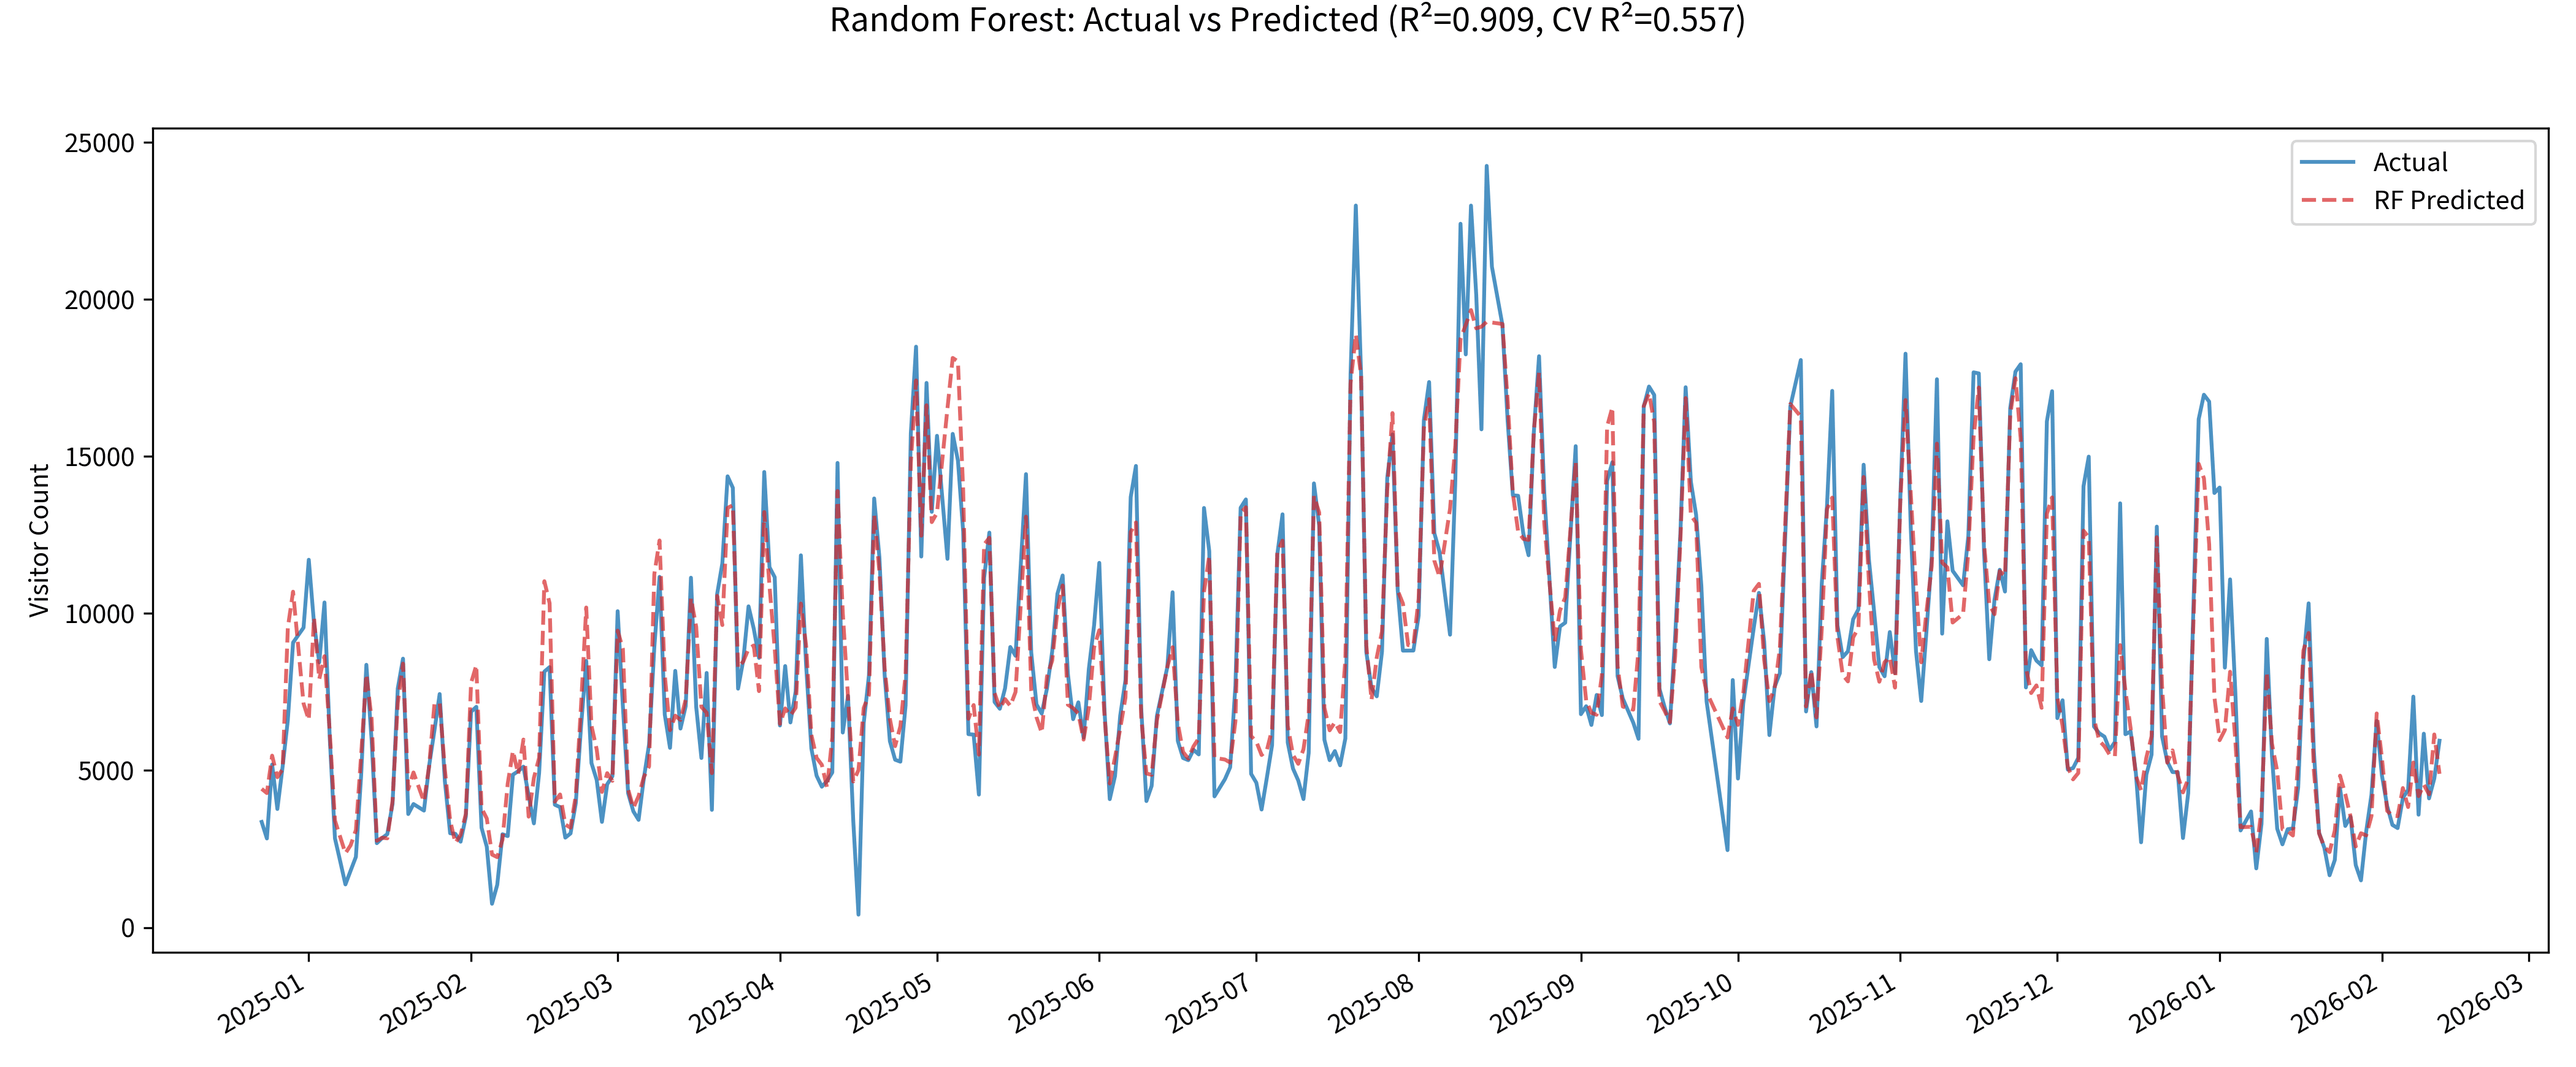
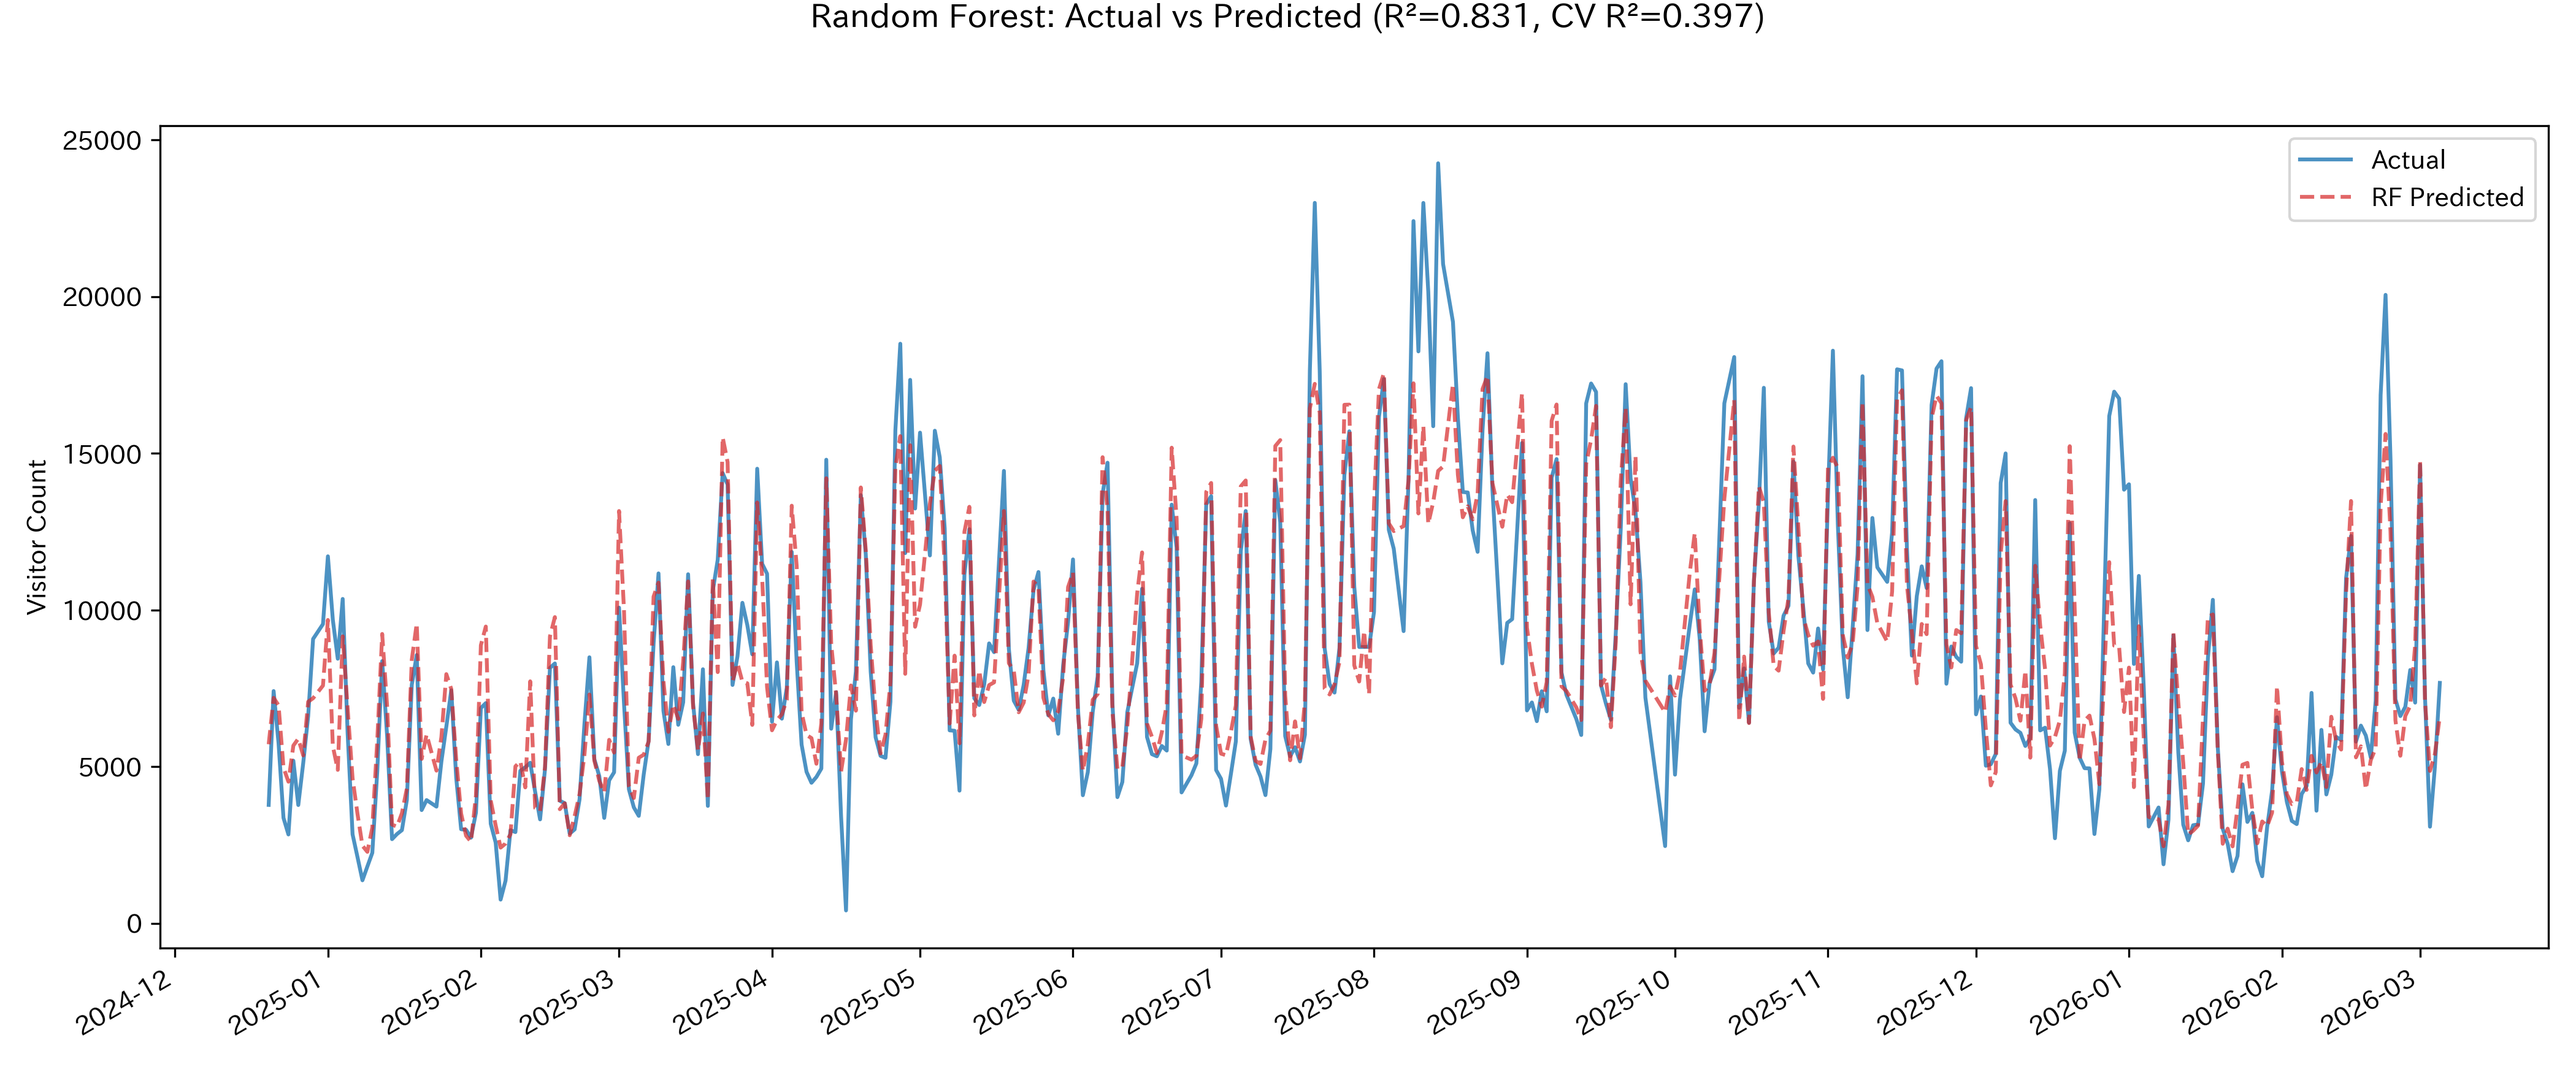
feat: handle missing Google intent signals and evaluate DHDE robustness

diff --git a/src/run_analysis.py b/src/run_analysis.py
@@ -99,7 +99,6 @@ def main() -> None:
     # Rename columns for display (more descriptive labels in figure)
     _label_map = {
         "count": "AI Camera Count",
-        route_col: f"Google {route_col.capitalize()}",
         "precip": "Precipitation (mm)",
         "temp": "Temperature (°C)",
         "sun": "Sunshine (h)",
@@ -107,6 +106,10 @@ def main() -> None:
         "is_weekend_or_holiday": "Weekend/Holiday",
         "weather_severity": "Weather Severity",
     }
+    # Only add Google label if available
+    if route_col is not None:
+        _label_map[route_col] = f"Google {route_col.capitalize()}"
+
     corr_matrix = corr_matrix.rename(index=_label_map, columns=_label_map)
 
     # ══════════════════════════════════════════════════════════════════════
@@ -128,32 +131,48 @@ def main() -> None:
     # 4. OPPORTUNITY GAP
     # ══════════════════════════════════════════════════════════════════════
     daily = compute_opportunity_gap(daily, route_col, rpt)
-    intent_median = daily[route_col].median()
+    if route_col is not None and route_col in daily.columns:
+       intent_median = daily[route_col].median()
+    else:
+       rpt.log("Skipping intent median calculation (no Google data).")
+       intent_median = None
     count_median = daily["count"].median()
-
+        
     # ══════════════════════════════════════════════════════════════════════
     # 5. EXPLAINING THE NEGATIVE CORRELATION
     # ══════════════════════════════════════════════════════════════════════
-    rpt.section(5, "Explaining the Negative Lag-2 Correlation")
-    rpt.log("\nLag correlations (full data):")
-    for lag in range(0, 8):
-        col = f"{route_col}_lag{lag}"
-        if col in daily.columns:
-            r = daily[["count", col]].dropna().corr().iloc[0, 1]
-            rpt.log(f"  lag {lag}: r = {r:+.3f}")
 
-    for label, mask in [("Weekday", daily["is_weekend_or_holiday"] == 0),
-                         ("Weekend/Holiday", daily["is_weekend_or_holiday"] == 1)]:
-        sub = daily.loc[mask]
-        r = sub[["count", f"{route_col}_lag2"]].dropna().corr().iloc[0, 1]
-        rpt.log(f"  {label:20s}: r = {r:+.3f}  (n={len(sub)})")
+    if route_col is not None and route_col in daily.columns:
 
-    rpt.log("\nDay-of-week Google intent vs count:")
-    for dow in range(7):
-        sub = daily[daily["dow"] == dow]
-        day_name = ["Mon", "Tue", "Wed", "Thu", "Fri", "Sat", "Sun"][dow]
-        rpt.log(f"  {day_name}: intent={sub[route_col].mean():7.1f}   "
-                f"count={sub['count'].mean():7.1f}")
+        rpt.section(5, "Explaining the Negative Lag-2 Correlation")
+
+        rpt.log("\nLag correlations (full data):")
+        for lag in range(0, 8):
+            col = f"{route_col}_lag{lag}"
+            if col in daily.columns:
+                r = daily[["count", col]].dropna().corr().iloc[0, 1]
+                rpt.log(f"  lag {lag}: r = {r:+.3f}")
+
+        for label, mask in [("Weekday", daily["is_weekend_or_holiday"] == 0),
+                            ("Weekend/Holiday", daily["is_weekend_or_holiday"] == 1)]:
+            sub = daily.loc[mask]
+            lag_col = f"{route_col}_lag2"
+            if lag_col in sub.columns:
+                r = sub[["count", lag_col]].dropna().corr().iloc[0, 1]
+                rpt.log(f"  {label:20s}: r = {r:+.3f}  (n={len(sub)})")
+
+        rpt.log("\nDay-of-week Google intent vs count:")
+        for dow in range(7):
+            sub = daily[daily["dow"] == dow]
+            day_name = ["Mon", "Tue", "Wed", "Thu", "Fri", "Sat", "Sun"][dow]
+            rpt.log(
+                f"  {day_name}: intent={sub[route_col].mean():7.1f}   "
+                f"count={sub['count'].mean():7.1f}"
+            )
+
+    else:
+        rpt.section(5, "Explaining the Negative Lag-2 Correlation")
+        rpt.log("Skipping correlation analysis (no Google intent data available).")
 
     # ══════════════════════════════════════════════════════════════════════
     # 6. VISUALISATIONS (Figs 1-7)
@@ -161,12 +180,7 @@ def main() -> None:
     rpt.section(6, "Generating Figures")
     y = model_df["count"].values
 
-    fig_num += 1
-    viz.plot_timeseries(
-        daily, route_col,
-        os.path.join(fig_dir, f"fig{fig_num:02d}_timeseries.png"),
-        rpt, dpi=dpi)
-
+    # Always safe plots
     fig_num += 1
     viz.plot_correlation_heatmap(
         corr_matrix,
@@ -190,19 +204,25 @@ def main() -> None:
         rf_result.r2_train, rf_result.cv_r2_mean,
         os.path.join(fig_dir, "paper_fig2_rf_prediction.png"),
         rpt, dpi=300)
-
-    fig_num += 1
-    viz.plot_opportunity_gap(
-        daily, route_col, intent_median, count_median,
-        os.path.join(fig_dir, f"fig{fig_num:02d}_opportunity_gap.png"),
-        rpt, dpi=dpi)
-
-    fig_num += 1
-    viz.plot_lag_correlations(
-        daily, route_col,
-        os.path.join(fig_dir, f"fig{fig_num:02d}_lag_correlations.png"),
-        rpt, dpi=dpi)
-
+    # Google-dependent plots 
+    if route_col is not None and route_col in daily.columns:
+        fig_num += 1
+        viz.plot_timeseries(
+            daily, route_col,
+            os.path.join(fig_dir, f"fig{fig_num:02d}_timeseries.png"),
+            rpt, dpi=dpi)
+        fig_num += 1
+        viz.plot_opportunity_gap(
+            daily, route_col, intent_median, count_median,
+            os.path.join(fig_dir, f"fig{fig_num:02d}_opportunity_gap.png"),
+            rpt, dpi=dpi)
+        fig_num += 1
+        viz.plot_lag_correlations(
+            daily, route_col,
+            os.path.join(fig_dir, f"fig{fig_num:02d}_lag_correlations.png"),
+            rpt, dpi=dpi)
+    else:
+        rpt.log("Skipping Google-dependent visualizations (no Google data).")
     # ══════════════════════════════════════════════════════════════════════
     # 7. CROSS-PREFECTURAL SIGNAL
     # ══════════════════════════════════════════════════════════════════════
@@ -292,7 +312,7 @@ def main() -> None:
     # produced later as part of the spatial section and copied below.
     viz.plot_resurrection(
         sim_df, total_lost, mean_actual_rank, mean_hypo_rank,
-        os.path.join("/tmp", "fig16_resurrection_temp.png"),
+        os.path.join(fig_dir, "fig16_resurrection_temp.png"),
         rpt, dpi=dpi)
 
     # ══════════════════════════════════════════════════════════════════════

diff --git a/src/data_loader.py b/src/data_loader.py
@@ -184,7 +184,11 @@ def load_google_intent(
                 frames.append(pd.read_csv(str(total_path)))
 
     if not frames:
-        raise FileNotFoundError(f"No Google trend CSV found in {trend_root}.")
+        # Instead of crashing, log a warning
+        rpt(f"WARNING: No Google trend CSV found in {trend_root}. "
+            f"Skipping Google Trends analysis. Other data will still be processed.")
+        # Return empty DataFrame and None for route column
+        return pd.DataFrame(), None
 
     google = pd.concat(frames, ignore_index=True)
 
@@ -391,7 +395,7 @@ def load_raw_fukui_survey(
     return df
 
 
-# ── Merge into master daily ──────────────────────────────────────────────────
+# ── Merge into master daily (patched for missing Google) ──────────────────────────────────────────────────
 
 def merge_daily(
     camera: pd.DataFrame,
@@ -413,9 +417,22 @@ def merge_daily(
     """
     rpt = reporter.log if reporter else print
 
+    # Merge camera + weather first
     daily = camera.merge(weather, on="date", how="left")
-    daily = daily.merge(google, on="date", how="left")
+
+    # Merge Google only if present
+    if google.empty:
+        rpt("Google data is empty, skipping Google merge.")
+    else:
+        daily = daily.merge(google, on="date", how="left")
+
     daily = daily.dropna(subset=["count"]).reset_index(drop=True)
+
+    # Update merged source description
+    source_text = "camera ∩ weather"
+    if not google.empty:
+        source_text += " ∩ google"
+    rpt(f"Merged daily rows ({source_text}): {len(daily)}")
     rpt(f"Merged daily rows (camera ∩ weather ∩ google): {len(daily)}")
     rpt(f"Date range: {daily['date'].min().date()} → {daily['date'].max().date()}")
 
@@ -436,7 +453,7 @@ def merge_daily(
 
 def run_adf_tests(
     daily: pd.DataFrame,
-    route_col: str,
+    route_col: str | None,
     *,
     reporter: Reporter | None = None,
 ) -> None:
@@ -450,8 +467,16 @@ def run_adf_tests(
     rpt = reporter.log if reporter else print
     rpt("\nAugmented Dickey-Fuller tests:")
 
-    for name, series in [("count", daily["count"]),
-                          (route_col, daily[route_col].dropna())]:
+    # Always test camera count
+    series_list = [("count", daily["count"])]
+
+    # Include Google column only if it exists
+    if route_col is not None and route_col in daily.columns:
+        series_list.append((route_col, daily[route_col].dropna()))
+    else:
+        rpt("Skipping ADF tests for Google series (missing data).")
+
+    for name, series in series_list:
         if len(series) < 20:
             rpt(f"  {name}: too few observations ({len(series)})")
             continue
@@ -459,7 +484,7 @@ def run_adf_tests(
         status = "STATIONARY" if p_value < 0.05 else "NON-STATIONARY"
         rpt(f"  {name}: ADF={adf_stat:.3f}  p={p_value:.4f}  "
             f"→ {status}  (lag={used_lag})")
-
+        
 
 # ── Convenience wrapper ──────────────────────────────────────────────────────
 
@@ -506,7 +531,12 @@ def load_all_data(
 
     # Merge
     daily = merge_daily(camera, weather_daily, google, reporter=reporter)
-    run_adf_tests(daily, route_col, reporter=reporter)
+
+    # Only run ADF tests on Google data if it exists
+    if route_col is not None and route_col in daily.columns:
+        run_adf_tests(daily, route_col, reporter=reporter)
+    else:
+        reporter.log("Skipping ADF test for Google data (not available).")
 
     # Surveys
     survey_glob = str(resolve_ws_path(cfg, paths["survey"]["merged_glob"]))

diff --git a/output/table2_statistical_rigor.tex b/output/table2_statistical_rigor.tex
@@ -8,34 +8,26 @@
 \midrule
 Feature & $\beta$ & $|\beta|$ rank \\
 \midrule
-  is\_weekend\_or\_holiday & $+0.5471$ & 1 \\
-  directions & $+0.4559$ & 2 \\
-  month & $+0.3307$ & 3 \\
-  weekend\_x\_intent & $-0.1658$ & 4 \\
-  weekend\_x\_severity & $-0.1592$ & 5 \\
-  directions\_roll7 & $+0.1584$ & 6 \\
-  directions\_lag1 & $+0.1510$ & 7 \\
-  directions\_lag3 & $-0.1326$ & 8 \\
-  sun & $+0.0856$ & 9 \\
-  temp & $-0.0601$ & 10 \\
-  precip & $-0.0507$ & 11 \\
-  weather\_severity & $-0.0503$ & 12 \\
-  dow\_mean\_count & $-0.0291$ & 13 \\
-  directions\_lag2 & $-0.0114$ & 14 \\
-  precip\_lag1 & $-0.0087$ & 15 \\
-  wind & $-0.0043$ & 16 \\
+  is\_weekend\_or\_holiday & $+0.5559$ & 1 \\
+  month & $+0.2566$ & 2 \\
+  temp & $+0.2175$ & 3 \\
+  sun & $+0.1668$ & 4 \\
+  weather\_severity & $-0.1362$ & 5 \\
+  wind & $-0.0235$ & 6 \\
+  precip & $+0.0145$ & 7 \\
+  dow\_mean\_count & $-0.0027$ & 8 \\
 \midrule
 \multicolumn{3}{l}{\textbf{Panel B: Global Effect Size}} \\
 \midrule
-  Cohen's $f^2$ & $4.2519$ & large ($\geq 0.35$) \\
+  Cohen's $f^2$ & $1.4666$ & large ($\geq 0.35$) \\
 \midrule
 \multicolumn{3}{l}{\textbf{Panel C: Out-of-Sample Predictive Validity}} \\
 \midrule
-  Training $N$ & 317 & \\
-  Hold-out $N$ & 80 & \\
-  Hold-out MAE & $1793.2$ visitors/day & \\
-  Hold-out RMSE & $2461.0$ visitors/day & \\
-  Hold-out $R^2$ & $0.6834$ & \\
+  Training $N$ & 336 & \\
+  Hold-out $N$ & 85 & \\
+  Hold-out MAE & $2357.5$ visitors/day & \\
+  Hold-out RMSE & $3154.0$ visitors/day & \\
+  Hold-out $R^2$ & $0.4084$ & \\
 \bottomrule
 \end{tabular}
 \end{table}

diff --git a/output/table1_ols.tex b/output/table1_ols.tex
@@ -6,27 +6,19 @@
 \toprule
 Variable & Coefficient & $p$-value \\
 \midrule
-  const & -722.3348 & 0.4482 \\
-  directions & +0.9174*** & 0.0000 \\
-  directions\_lag1 & +0.3048* & 0.0353 \\
-  directions\_lag2 & -0.0230 & 0.8718 \\
-  directions\_lag3 & -0.2662* & 0.0482 \\
-  directions\_roll7 & +0.3872* & 0.0435 \\
-  precip & -24.3382 & 0.1709 \\
-  temp & -29.3252 & 0.0707 \\
-  sun & +1294.1985** & 0.0057 \\
-  wind & -12.6508 & 0.8689 \\
-  precip\_lag1 & -4.1625 & 0.7126 \\
-  is\_weekend\_or\_holiday & +5374.2338*** & 0.0000 \\
-  weather\_severity & -283.4014 & 0.2644 \\
-  dow\_mean\_count & -0.0585 & 0.5923 \\
-  weekend\_x\_severity & -1194.5150*** & 0.0000 \\
-  weekend\_x\_intent & -0.2271* & 0.0367 \\
-  month & +409.4725*** & 0.0000 \\
+  const & +3329.5671** & 0.0025 \\
+  precip & +7.0203 & 0.7763 \\
+  temp & +106.7956*** & 0.0000 \\
+  sun & +2520.3620*** & 0.0001 \\
+  wind & -67.7463 & 0.5198 \\
+  is\_weekend\_or\_holiday & +5422.9548*** & 0.0000 \\
+  weather\_severity & -766.2890* & 0.0168 \\
+  dow\_mean\_count & -0.0054 & 0.9684 \\
+  month & +314.3638*** & 0.0000 \\
 \midrule
-  $R^2$ & 0.8096 & \\
-  Adj. $R^2$ & 0.8016 & \\
-  $N$ & 397 & \\
+  $R^2$ & 0.5946 & \\
+  Adj. $R^2$ & 0.5867 & \\
+  $N$ & 421 & \\
 \bottomrule
 \end{tabular}
 \end{table}

diff --git a/src/feature_engineering.py b/src/feature_engineering.py
@@ -187,9 +187,15 @@ def build_features(
     reporter.log(f"Weather severity distribution:\n"
                  f"{daily['weather_severity'].value_counts().sort_index().to_string()}")
 
-    daily = add_rolling_features(daily, route_col)
-    daily = add_lag_features(daily, route_col)
-    daily = add_interaction_features(daily, route_col)
+    # Google-dependent features
+    if route_col is not None and route_col in daily.columns:
+      daily = add_rolling_features(daily, route_col)
+      daily = add_lag_features(daily, route_col)
+      daily = add_interaction_features(daily, route_col)
+    else:
+        reporter.log("Skipping rolling features for Google data (not available).")
+    
+    # Independent features
     daily = add_dow_mean_encoding(daily)
 
     # Log DOW averages

diff --git a/src/economics.py b/src/economics.py
@@ -39,7 +39,12 @@ def compute_opportunity_gap(
     reporter.section(4, "Opportunity Gap Analysis")
     daily = daily.copy()
 
-    intent_med = daily[route_col].median()
+    if route_col is not None and route_col in daily.columns:
+        intent_med = daily[route_col].median()
+    else:
+        reporter.log("Skipping opportunity gap (no Google intent data).")
+        daily["opportunity_gap"] = np.nan
+        return daily
     count_med = daily["count"].median()
 
     daily["high_intent"] = (daily[route_col] > intent_med).astype(int)

diff --git a/output/table3_key_metrics.tex b/output/table3_key_metrics.tex
@@ -6,12 +6,10 @@
 \toprule
 Metric & Value \\
 \midrule
-  Lost Visitors (single-node) & 85,522 \\
-  Lost Visitors (multi-node) & 865,917 \\
-  Aggregate Revenue Loss (¥) & ¥11,959,183,083 \\
-  Ishikawa CCF r & 0.5490 \\
+  Lost Visitors (single-node) & 0 \\
+  Ishikawa CCF r & 0.5888 \\
   Best lag (days) & 0 \\
-  Weather Sensitivity Ratio (W/S) & 6.26x \\
+  Weather Sensitivity Ratio (W/S) & 6.59x \\
 \bottomrule
 \end{tabular}
 \end{table}
